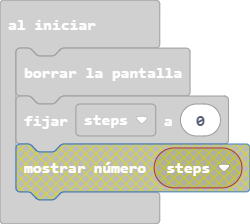
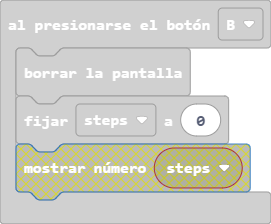
Actualizar main.blocks, main.ts

diff --git a/main.ts b/main.ts
@@ -7,7 +7,6 @@ input.onGesture(Gesture.Shake, function () {
 input.onButtonPressed(Button.B, function () {
     basic.clearScreen()
     steps = 0
-    basic.showNumber(steps)
 })
 let steps = 0
 basic.clearScreen()
